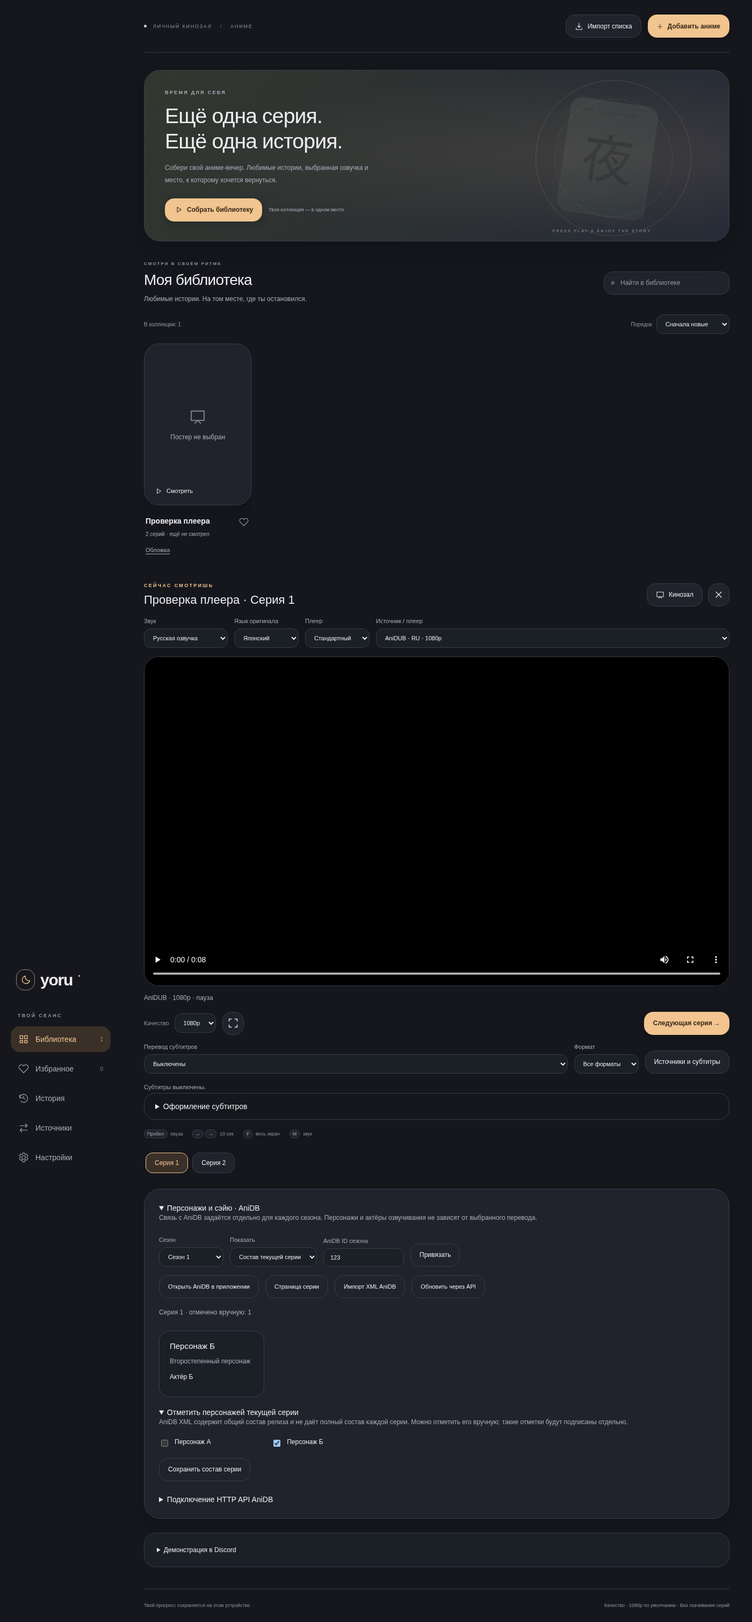
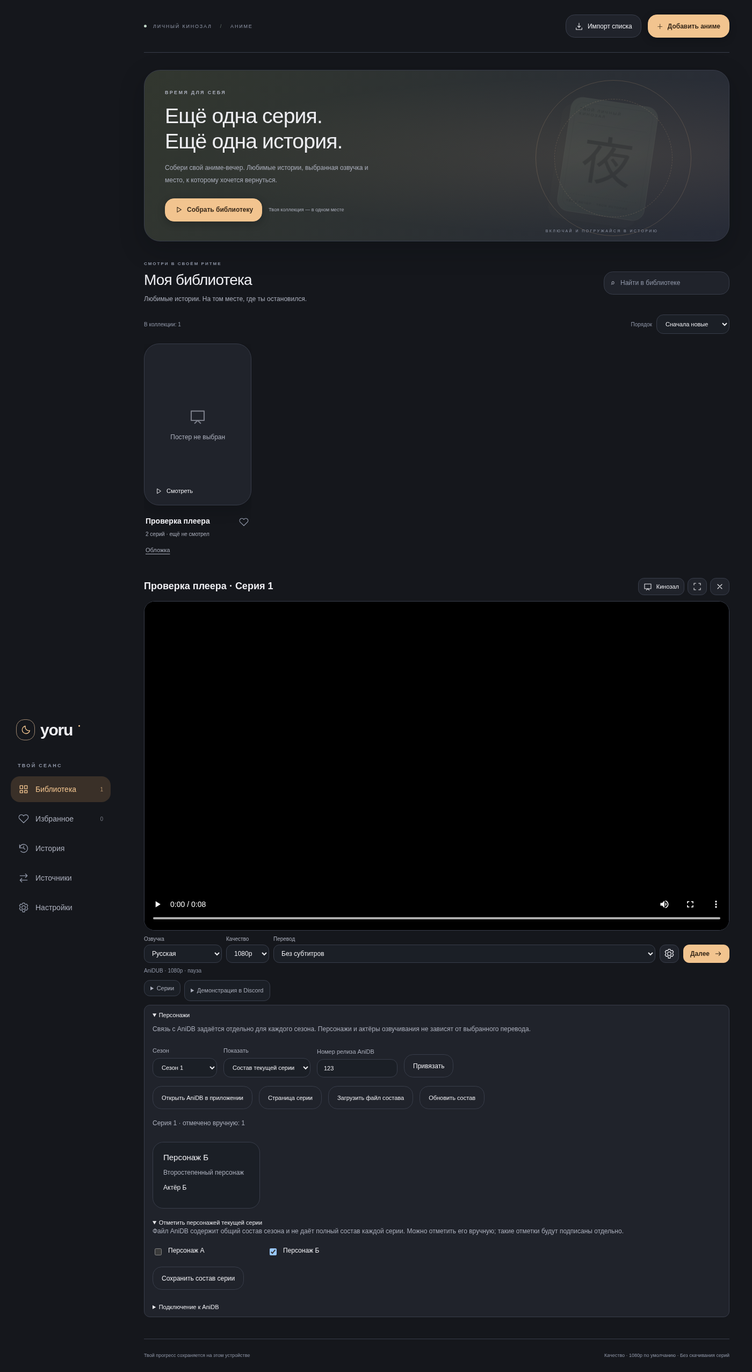
docs: refresh compact Russian player previews for Yoru 0.6.1 [skip ci]

diff --git a/docs/viewing-0.6.md b/docs/viewing-0.6.md
@@ -1,17 +1,17 @@
-# Оригинал, переводы субтитров, плееры и AniDB — Yoru 0.6
+# Оригинал, переводы субтитров, плееры и AniDB — Yoru 0.6.1
 
-Это инструкция для локальной версии 0.6. В публичной `main` пока остаётся код 0.2; здесь опубликованы документация и предпросмотр интерфейса.
+Инструкция для локальной версии 0.6.1. В публичной `main` пока остаётся код 0.2; здесь опубликованы описание и снимки интерфейса.
 
 ## Как смотреть
 
-При добавлении аниме выбери тип источника: прямая MP4/WebM/M3U8-ссылка либо страница плеера сайта. Для прямого видео доступны **русская озвучка** (по умолчанию) и **оригинал + субтитры**. Язык оригинала задаётся явно: японский, китайский, корейский, английский или русский. Приложение не распознаёт язык звука: фильтр опирается на данные источника. При восстановлении выбранные язык и разрешение сохраняются; русская/английская дубляжная дорожка не подменяет японский оригинал.
+При добавлении аниме выбери тип источника: прямая MP4/WebM/M3U8-ссылка либо страница плеера сайта. Для прямого видео доступны **русская озвучка** (по умолчанию) и **оригинал + субтитры**. В 0.6.1 выбор языка оригинала убран из интерфейса. Сначала выбирается японский; если импортированный список содержит только другой явно отмеченный оригинал нужного качества, используется его язык. После выбора язык не меняется при восстановлении. Данные старой языковой настройки не мешают открыть японский источник. Приложение не распознаёт язык звука: фильтр опирается на данные источника. При восстановлении выбранные язык и разрешение сохраняются; русская/английская дубляжная дорожка не подменяет японский оригинал.
 
-В открытой серии:
+В открытой серии под видео видны озвучка, качество и перевод. Остальное открывается шестерёнкой **«Параметры просмотра»**:
 
-1. **Плеер** — стандартный HTML5/HLS.js или Video.js/VHS. Это два интерфейса и два способа обработки HLS; декодирование видео в обоих выполняет Chromium. Выбор плеера не добавляет отсутствующие кодеки, не меняет видеоссылку и не обходит ограничения сервера.
-2. **Источник / плеер** — прямые источники выбранного качества/языка и отдельно добавленные страницы сайтов. Смена прямого источника или встроенного плеера сохраняет позицию, паузу, громкость, отключение звука и скорость.
-3. **Перевод субтитров** — варианты с отдельными названиями студий/переводчиков. Два русских перевода с разными словами остаются разными дорожками. Название выбранного варианта запоминается; в следующей серии ищется такой же вариант. Если его нет, в режиме оригинала выбирается доступный перевод предпочитаемого языка. «Выключены» сохраняется как отдельный выбор.
-4. **Источники и субтитры** — добавление запасного видео, страницы сайта, HTTPS-ссылки на субтитры либо локального файла. Вариант можно привязать к одному источнику, если у версий разный монтаж. Максимум на серию: 20 прямых источников, 10 страниц сайтов, 30 дорожек субтитров.
+1. **Плеер** — «Основной» (HTML5/HLS.js) или «Альтернативный» (Video.js/VHS). Это два интерфейса и два способа обработки HLS; декодирование видео в обоих выполняет Chromium. Выбор плеера не добавляет отсутствующие кодеки, не меняет видеоссылку и не обходит ограничения сервера.
+2. **Источник** — прямые источники выбранного качества/языка и отдельно добавленные страницы сайтов. Смена прямого источника или встроенного плеера сохраняет позицию, паузу, громкость, отключение звука и скорость.
+3. **Перевод** — варианты с отдельными названиями студий/переводчиков. Два русских перевода с разными словами остаются разными дорожками. Название выбранного варианта запоминается; в следующей серии ищется такой же вариант. Если его нет, в режиме оригинала выбирается доступный перевод предпочитаемого языка. «Выключены» сохраняется как отдельный выбор.
+4. **Добавить источник или перевод** — добавление запасного видео, страницы сайта, HTTPS-ссылки на субтитры либо локального файла. Вариант можно привязать к одному источнику, если у версий разный монтаж. Максимум на серию: 20 прямых источников, 10 страниц сайтов, 30 дорожек субтитров.
 
 Текстовые дорожки — UTF-8, до 2 МиБ. SRT/VTT показываются нативными субтитрами, размер 70–180%, фон и задержка −10…+10 секунд настраиваются в приложении. ASS/SSA рисует libass через WebAssembly в отдельном worker: сохраняются авторские позиции, стили и надписи. Размер/фон для ASS задаёт автор, соответствующие настройки отключены. В комплекте есть Liberation Sans с кириллицей; отсутствующие авторские шрифты заменяются им, поэтому начертание может отличаться. Дополнительные авторские шрифты пока не загружаются.
 
@@ -31,7 +31,7 @@ SRT/VTT очищают предыдущие строки при переключ
 
 ## Персонажи и сэйю AniDB
 
-Открой **«Персонажи и сэйю · AniDB»** под сериями. Укажи ID релиза отдельно для каждого сезона. В импортированном списке поле `season` у серии задаёт сезон, а `seasons[].anidbId` — его связь с AniDB. Общий `anidbId` у аниме применяется только к первому сезону. Новая серия переключает панель на её сезон. Из другой связи данные не подставляются.
+Открой **«Персонажи»** под сериями. Укажи ID релиза отдельно для каждого сезона. В импортированном списке поле `season` у серии задаёт сезон, а `seasons[].anidbId` — его связь с AniDB. Общий `anidbId` у аниме применяется только к первому сезону. Новая серия переключает панель на её сезон. В 0.6.1 панель открывается свёрнутой кнопкой «Персонажи». Из другой связи данные не подставляются.
 
 Возможности:
 

diff --git a/README.md b/README.md
@@ -1,16 +1,24 @@
 # Yoru — Windows-плеер для аниме
 
-В локальной версии **Yoru 0.6.0** появились оригинальная озвучка, отдельные переводы субтитров от разных студий, два встроенных плеера и панель AniDB. Постеры, темы и собственная палитра сохранены.
+В локальной версии **Yoru 0.6.1** появились оригинальная озвучка, отдельные переводы субтитров от разных студий, два встроенных плеера и панель AniDB. Постеры, темы и собственная палитра сохранены.
 
-**Ниже — снимки локальной версии 0.6.0. В публичной ветке `main` пока опубликован код прежней версии 0.2 под названием «Кадр». Новый код не отправлен в открытый репозиторий.**
+**Ниже — снимки локальной версии 0.6.1. В публичной ветке `main` пока опубликован код прежней версии 0.2 под названием «Кадр». Новый код не отправлен в открытый репозиторий.**
+
+### Компактный плеер в 0.6.1
+
+Под видео одна строка: озвучка, качество, перевод, параметры и следующая серия. Источник, выбор плеера, вид субтитров и оформление находятся под шестерёнкой. Серии и персонажи свёрнуты. На контрольном снимке управление без видео занимает меньше 200 пикселей.
+
+Выбор языка оригинала убран из интерфейса — приоритет у японского, для других оригинальных дорожек язык берётся из данных источника. Вместо технических обозначений в списке переводов — названия студий. В параметрах используются русские названия «Текстовые», «С оформлением», «Основной», «Альтернативный». Расширения файлов остаются в окне импорта.
+
+[Отдельное окно параметров просмотра](docs/images/player-settings.png)
 
 ### Оригинал и разные переводы
 
-Выбери **«Звук → Оригинал + субтитры»** и язык оригинала. Кнопка **«Источники и субтитры»** добавляет варианты от разных переводчиков из UTF-8 файлов или HTTPS-ссылок SRT/VTT/ASS/SSA. У каждого варианта отдельные название и текст. SRT/VTT поддерживают размер и фон; ASS/SSA сохраняют авторские стили через libass. Задержка доступна для добавленных файлов и ссылок.
+Выбери **«Озвучка → Оригинал»**; приоритет у японской дорожки. Кнопка **«Параметры просмотра → Добавить источник или перевод»** добавляет варианты от разных переводчиков из UTF-8 файлов или HTTPS-ссылок SRT/VTT/ASS/SSA. У каждого варианта отдельные название и текст. SRT/VTT поддерживают размер и фон; ASS/SSA сохраняют авторские стили через libass. Задержка доступна для добавленных файлов и ссылок.
 
-![Yoru 0.6 — настоящий ASS поверх тестового чёрного видео, не видеопоток аниме](docs/images/original-player.png)
+![Yoru 0.6.1 — перевод с оформлением поверх тестового видео, не видеопоток аниме](docs/images/original-player.png)
 
-Встроенные плееры **стандартный HTML5/HLS.js** и **Video.js/VHS** сохраняют позицию, паузу, громкость, отключение звука и скорость при переключении. Автовосстановление сохраняет выбранные язык и качество.
+Встроенные плееры **«Основной»** и **«Альтернативный»** сохраняют позицию, паузу, громкость, отключение звука и скорость при переключении. Автовосстановление сохраняет выбранные язык и качество.
 
 ### Yummyani, AnimeJoy и AniDB
 
@@ -22,11 +30,11 @@
 
 ### Библиотека, темы и настройки
 
-![Yoru 0.6 — библиотека с настоящими постерами аниме](docs/images/library.png)
+![Yoru 0.6.1 — библиотека с настоящими постерами аниме](docs/images/library.png)
 
 [Выбор постера](docs/images/poster-picker.png) · [Светлая тема](docs/images/settings-cream.png) · [Сакура](docs/images/settings-sakura.png) · [Своя палитра](docs/images/settings-custom.png) · [Подробные настройки](docs/images/settings-manual.png)
 
-Все изображения в [docs/images](docs/images) относятся к локальной версии 0.6. При установке библиотека пустая. Снимки используют тестовые видеоссылки/XML; настоящие постеры взяты из каталога AniLibria. [Как устроены обложки](docs/posters.md).
+Все изображения в [docs/images](docs/images) относятся к локальной версии 0.6.1. При установке библиотека пустая. Снимки используют тестовые видеоссылки/XML; настоящие постеры взяты из каталога AniLibria. [Как устроены обложки](docs/posters.md).
 
 ## Опубликованная версия 0.2 — прежнее название «Кадр»
 

diff --git a/docs/images/README.md b/docs/images/README.md
@@ -1,6 +1,6 @@
-# Актуальные снимки Yoru 0.6.0
+# Актуальные снимки Yoru 0.6.1
 
-Это предпросмотр локальной версии 0.6; код публичной ветки main пока остаётся на 0.2.
+Это предпросмотр локальной версии 0.6.1; код публичной ветки main пока остаётся на 0.2.
 
 Все PNG в этой папке пересняты из текущего интерфейса. Старые снимки с буквами и неоднородным фоном удалены.
 
@@ -9,7 +9,8 @@
 - `settings-cream.png`, `settings-sakura.png` — готовые темы.
 - `settings-custom.png` — собственная палитра.
 - `settings-manual.png` — подробные ручные настройки.
-- `original-player.png` — реальный ASS-рендеринг поверх тестового чёрного видео, не поток аниме.
+- `original-player.png` — компактный плеер с русскими подписями и переводом с оформлением поверх тестового видео.
+- `player-settings.png` — отдельное окно параметров просмотра.
 - `anidb-cast.png` — панель персонажей с тестовыми XML-данными и явно ручными отметками серии.
 
 Снимки создаются браузерными тестами из подготовленных данных. Начальная библиотека приложения пустая; показанные видеоссылки — тестовые. Обложки получены из каталога AniLibria, права принадлежат их правообладателям. Подробнее: [posters.md](../posters.md).
